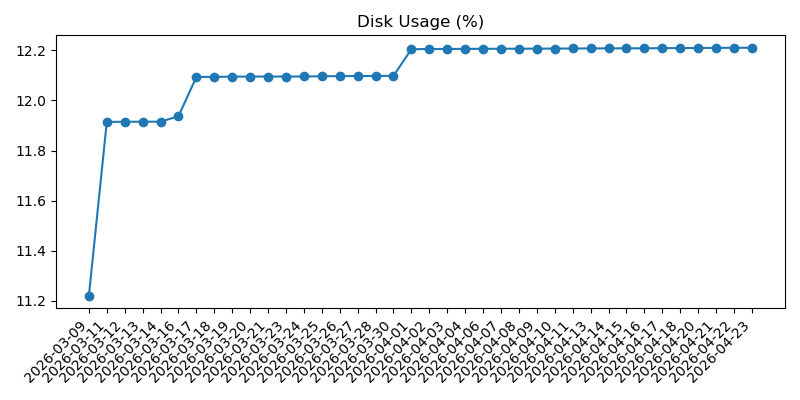
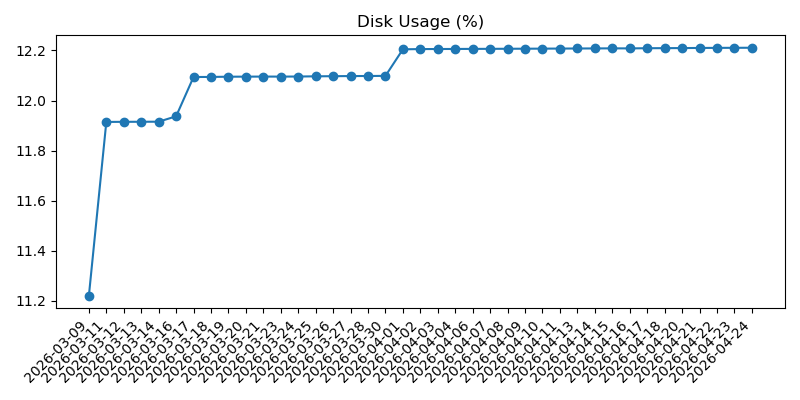
Add daily health and weather snapshot

diff --git a/2026-04.md b/2026-04.md
@@ -680,3 +680,37 @@
 - Overall: Good
 - Warning: None
 
+## 2026-04-24 15:12:09
+
+### Machine
+- Uptime: up 3 days, 16 hours, 57 minutes
+- CPU load (1m, 5m, 15m): 0.00, 0.00, 0.00
+- RAM used: 164 MB / 921 MB (17.8%)
+- Disk used (/): 3.5 GB / 28.8 GB (12.2%)
+- Free disk space (/): 24.1 GB
+- CPU temp: 39.7°C
+- Voltage / throttling: OK
+
+### Reachability
+- Internet check (1.1.1.1): Reachable (4.1 ms)
+
+### Weather
+- Madrid:
+  - Condition: Nuboso con lluvia escasa
+  - Max temp: 23°C
+  - Min temp: 13°C
+  - Feels like: 18°C
+  - Chance of rain: 70%
+  - Warnings: None reported
+- Barcelona:
+  - Condition: Poco nuboso
+  - Max temp: 20°C
+  - Min temp: 15°C
+  - Feels like: 17°C
+  - Chance of rain: 0%
+  - Warnings: None reported
+
+### Health
+- Overall: Good
+- Warning: None
+
